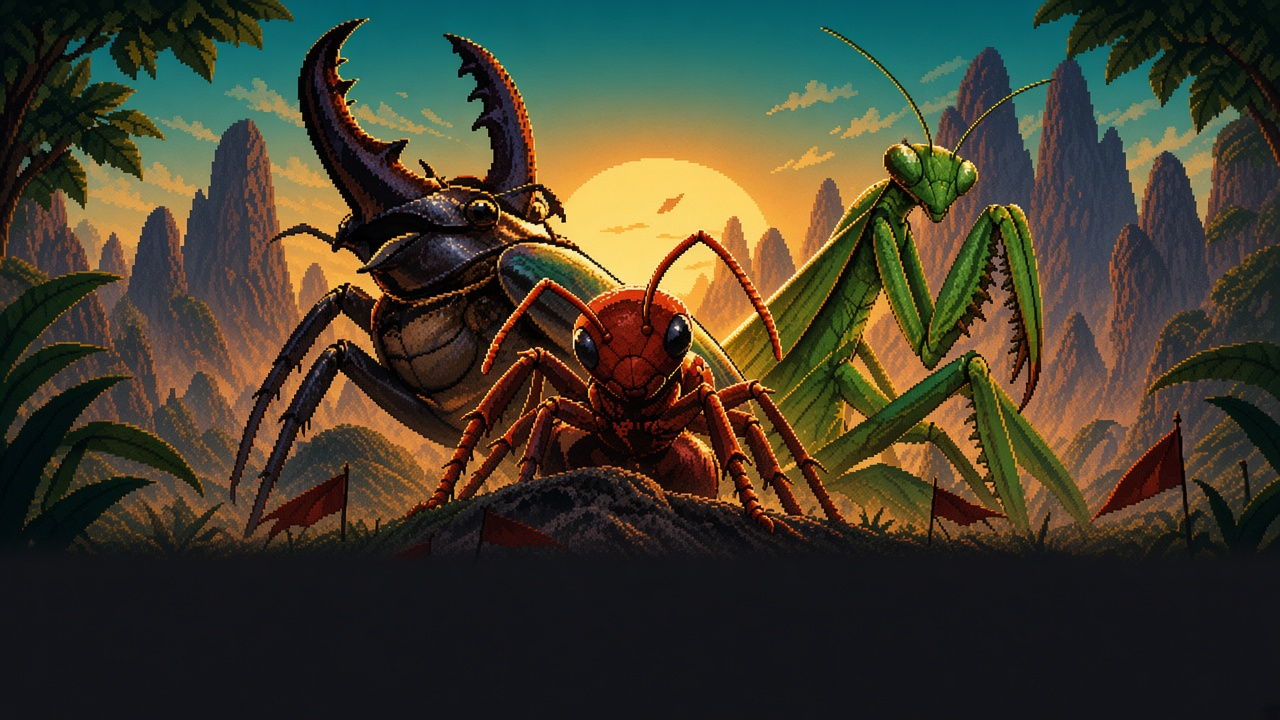
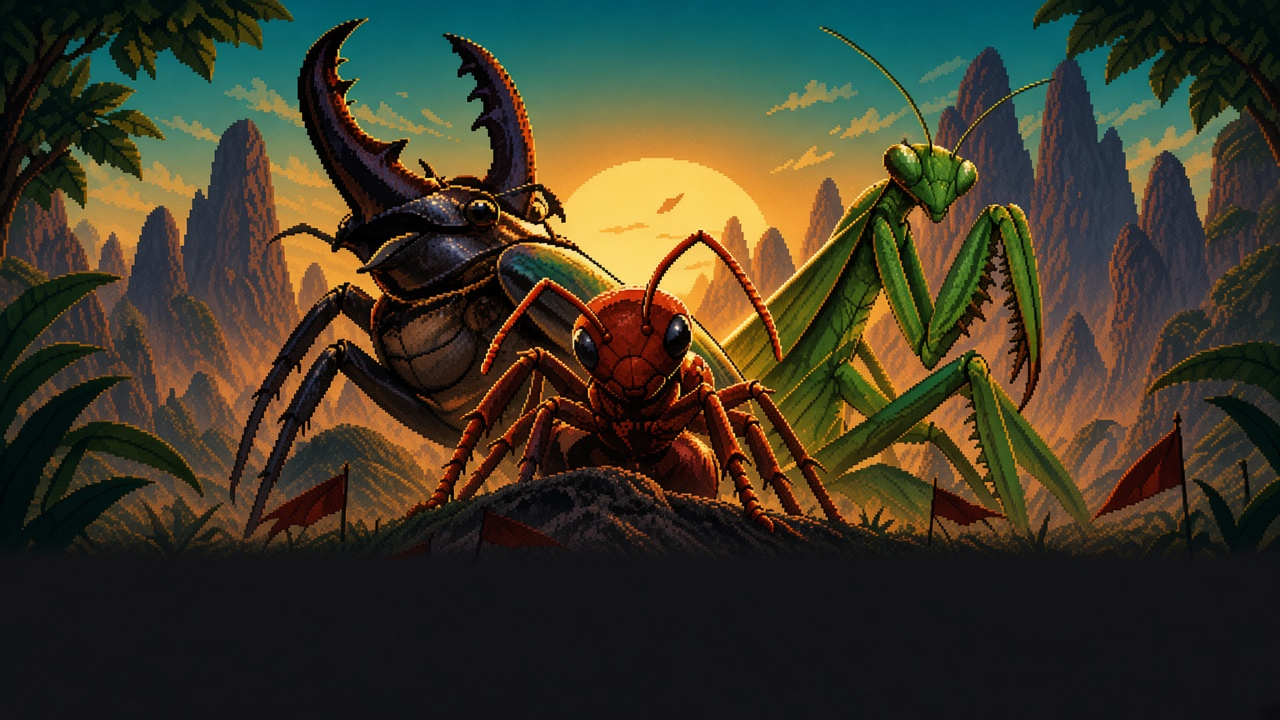
Fix menu hero crop so beetle and mantis stay whole
Use a safer trio banner and full-width top-aligned draw that only
trims the bottom pad, instead of side-cropping the insects.

diff --git a/src/ui/renderer.ts b/src/ui/renderer.ts
@@ -715,34 +715,34 @@ function drawMenu(ctx: CanvasRenderingContext2D, ui: UiState, buttons: Button[],
   const t = ui.now / 1000;
   fillBg(ctx, W, H, t);
 
-  // Full-bleed roster hero (ant · beetle · mantis dusk). Falls back to ambient bg while loading.
+  // Full-width roster hero — crop only the bottom UI pad in the art, never the sides.
   const hero = getMenuHeroImage();
+  let artBottom = 420;
   if (hero) {
     const imgW = hero.naturalWidth || hero.width;
     const imgH = hero.naturalHeight || hero.height;
-    const heroBand = 390;
-    // Prefer the upper portion of the art (where the trio lives) so the title sits clear below.
-    const srcH = Math.floor(imgH * 0.82);
-    const cover = Math.max(W / imgW, heroBand / srcH);
-    const dw = imgW * cover;
-    const dh = srcH * cover;
-    const dx = (W - dw) / 2;
-    const dy = heroBand - dh;
+    const heroBand = 505;
+    const scale = W / imgW;
+    const dw = W;
+    const dh = imgH * scale;
+    const dx = 0;
+    const dy = 0; // top-align: keep heads/horns; drop the bottom black pad
+    artBottom = heroBand;
     ctx.save();
     ctx.beginPath();
-    ctx.rect(0, 0, W, heroBand + 8);
+    ctx.rect(0, 0, W, heroBand);
     ctx.clip();
     ctx.imageSmoothingEnabled = false;
-    ctx.drawImage(hero, 0, 0, imgW, srcH, dx, dy, dw, dh);
+    ctx.drawImage(hero, dx, dy, dw, dh);
     ctx.restore();
 
-    const fade = ctx.createLinearGradient(0, heroBand - 40, 0, H);
+    const fade = ctx.createLinearGradient(0, heroBand - 55, 0, H);
     fade.addColorStop(0, 'rgba(8,14,10,0)');
-    fade.addColorStop(0.22, 'rgba(8,14,10,0.55)');
-    fade.addColorStop(0.45, 'rgba(8,14,10,0.88)');
-    fade.addColorStop(1, 'rgba(8,14,10,0.94)');
+    fade.addColorStop(0.25, 'rgba(8,14,10,0.5)');
+    fade.addColorStop(0.5, 'rgba(8,14,10,0.88)');
+    fade.addColorStop(1, 'rgba(8,14,10,0.95)');
     ctx.fillStyle = fade;
-    ctx.fillRect(0, heroBand - 40, W, H - (heroBand - 40));
+    ctx.fillRect(0, heroBand - 55, W, H - (heroBand - 55));
   }
 
   // Floating pollen over the art
@@ -750,7 +750,7 @@ function drawMenu(ctx: CanvasRenderingContext2D, ui: UiState, buttons: Button[],
   for (let i = 0; i < 18; i++) {
     const seed = i * 97.3;
     const x = ((seed * 13 + t * (10 + (i % 4))) % (W + 40)) - 20;
-    const y = 30 + ((seed * 7.1 + Math.sin(t * 0.5 + i) * 20) % 320);
+    const y = 30 + ((seed * 7.1 + Math.sin(t * 0.5 + i) * 20) % Math.max(200, artBottom - 40));
     const a = 0.1 + (i % 3) * 0.05;
     ctx.fillStyle = i % 2 === 0 ? `rgba(232,184,74,${a})` : `rgba(180,220,180,${a})`;
     ctx.beginPath();
@@ -759,31 +759,32 @@ function drawMenu(ctx: CanvasRenderingContext2D, ui: UiState, buttons: Button[],
   }
   ctx.restore();
 
-  // Brand first — large title clear under the trio.
-  glowCircle(ctx, W / 2, 428, 190, C.amberGlow);
-  drawPixelTitle(ctx, W / 2, 428, 12, C.mineral);
+  // Brand under the fully-visible trio.
+  const titleY = Math.min(H - 200, Math.round(artBottom + 18));
+  glowCircle(ctx, W / 2, titleY, 160, C.amberGlow);
+  drawPixelTitle(ctx, W / 2, titleY, 11, C.mineral);
 
-  text(ctx, '난이도', W / 2, 508, 14, C.mute, 'center', 400);
+  text(ctx, '난이도', W / 2, titleY + 58, 14, C.mute, 'center', 400);
   const diffs = Object.keys(DIFFICULTIES) as Difficulty[];
   const totalW = diffs.length * 128 + (diffs.length - 1) * 16;
   const startX = Math.round(W / 2 - totalW / 2);
   diffs.forEach((d, i) => {
-    button(ctx, buttons, { id: `diff_${d}`, x: startX + i * 144, y: 516, w: 128, h: 40, onClick: () => api.setDifficulty(d) }, DIFFICULTIES[d].name, ui, {
+    button(ctx, buttons, { id: `diff_${d}`, x: startX + i * 144, y: titleY + 74, w: 128, h: 38, onClick: () => api.setDifficulty(d) }, DIFFICULTIES[d].name, ui, {
       active: ui.difficulty === d,
       size: 15,
     });
   });
 
-  const start: Button = { id: 'start', x: W / 2 - 140, y: 580, w: 280, h: 52, onClick: () => api.startGame() };
+  const start: Button = { id: 'start', x: W / 2 - 140, y: titleY + 130, w: 280, h: 50, onClick: () => api.startGame() };
   const hovered = inRect(start, ui.hover.x, ui.hover.y);
-  glowCircle(ctx, W / 2, 606, hovered ? 100 : 80, C.amberGlow);
+  glowCircle(ctx, W / 2, titleY + 155, hovered ? 90 : 70, C.amberGlow);
   ctx.fillStyle = hovered ? '#5a6e30' : '#3e5428';
   rr(ctx, start.x, start.y, start.w, start.h, 2);
   ctx.fill();
   ctx.strokeStyle = C.mineral;
   ctx.lineWidth = 2;
   ctx.stroke();
-  text(ctx, '전쟁 시작', W / 2, 606, 22, C.mineral, 'center', 400, FONT_KO_DISPLAY);
+  text(ctx, '전쟁 시작', W / 2, titleY + 155, 20, C.mineral, 'center', 400, FONT_KO_DISPLAY);
   buttons.push(start);
 }
 
